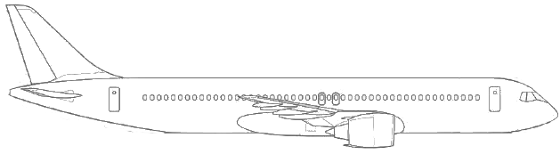
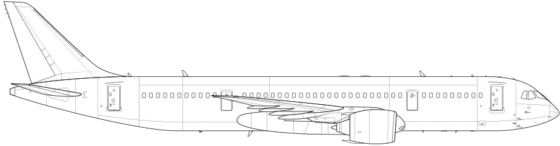
mc21 new sprite

Changed region(s): [[0.0, 0.1644, 1.0, 1.0], [0.0, 0.0, 0.0911, 0.2466], [0.1214, 0.274, 0.1518, 0.3836]]

diff --git a/shilka2/Aircrafts/Aircrafts.cs b/shilka2/Aircrafts/Aircrafts.cs
@@ -2655,7 +2655,7 @@ namespace shilka2
                 aircraftType = "mc21",
                 aircraftName = "Иркут МС-21",
                 hitPoint = 100,
-                size = new int[] { 560, 154 },
+                size = new int[] { 560, 146 },
                 speed = 8,
                 minAltitude = minAltitudeForLargeAircraft,
                 wrecksMaxSize = Constants.WRECKS_BIG,
